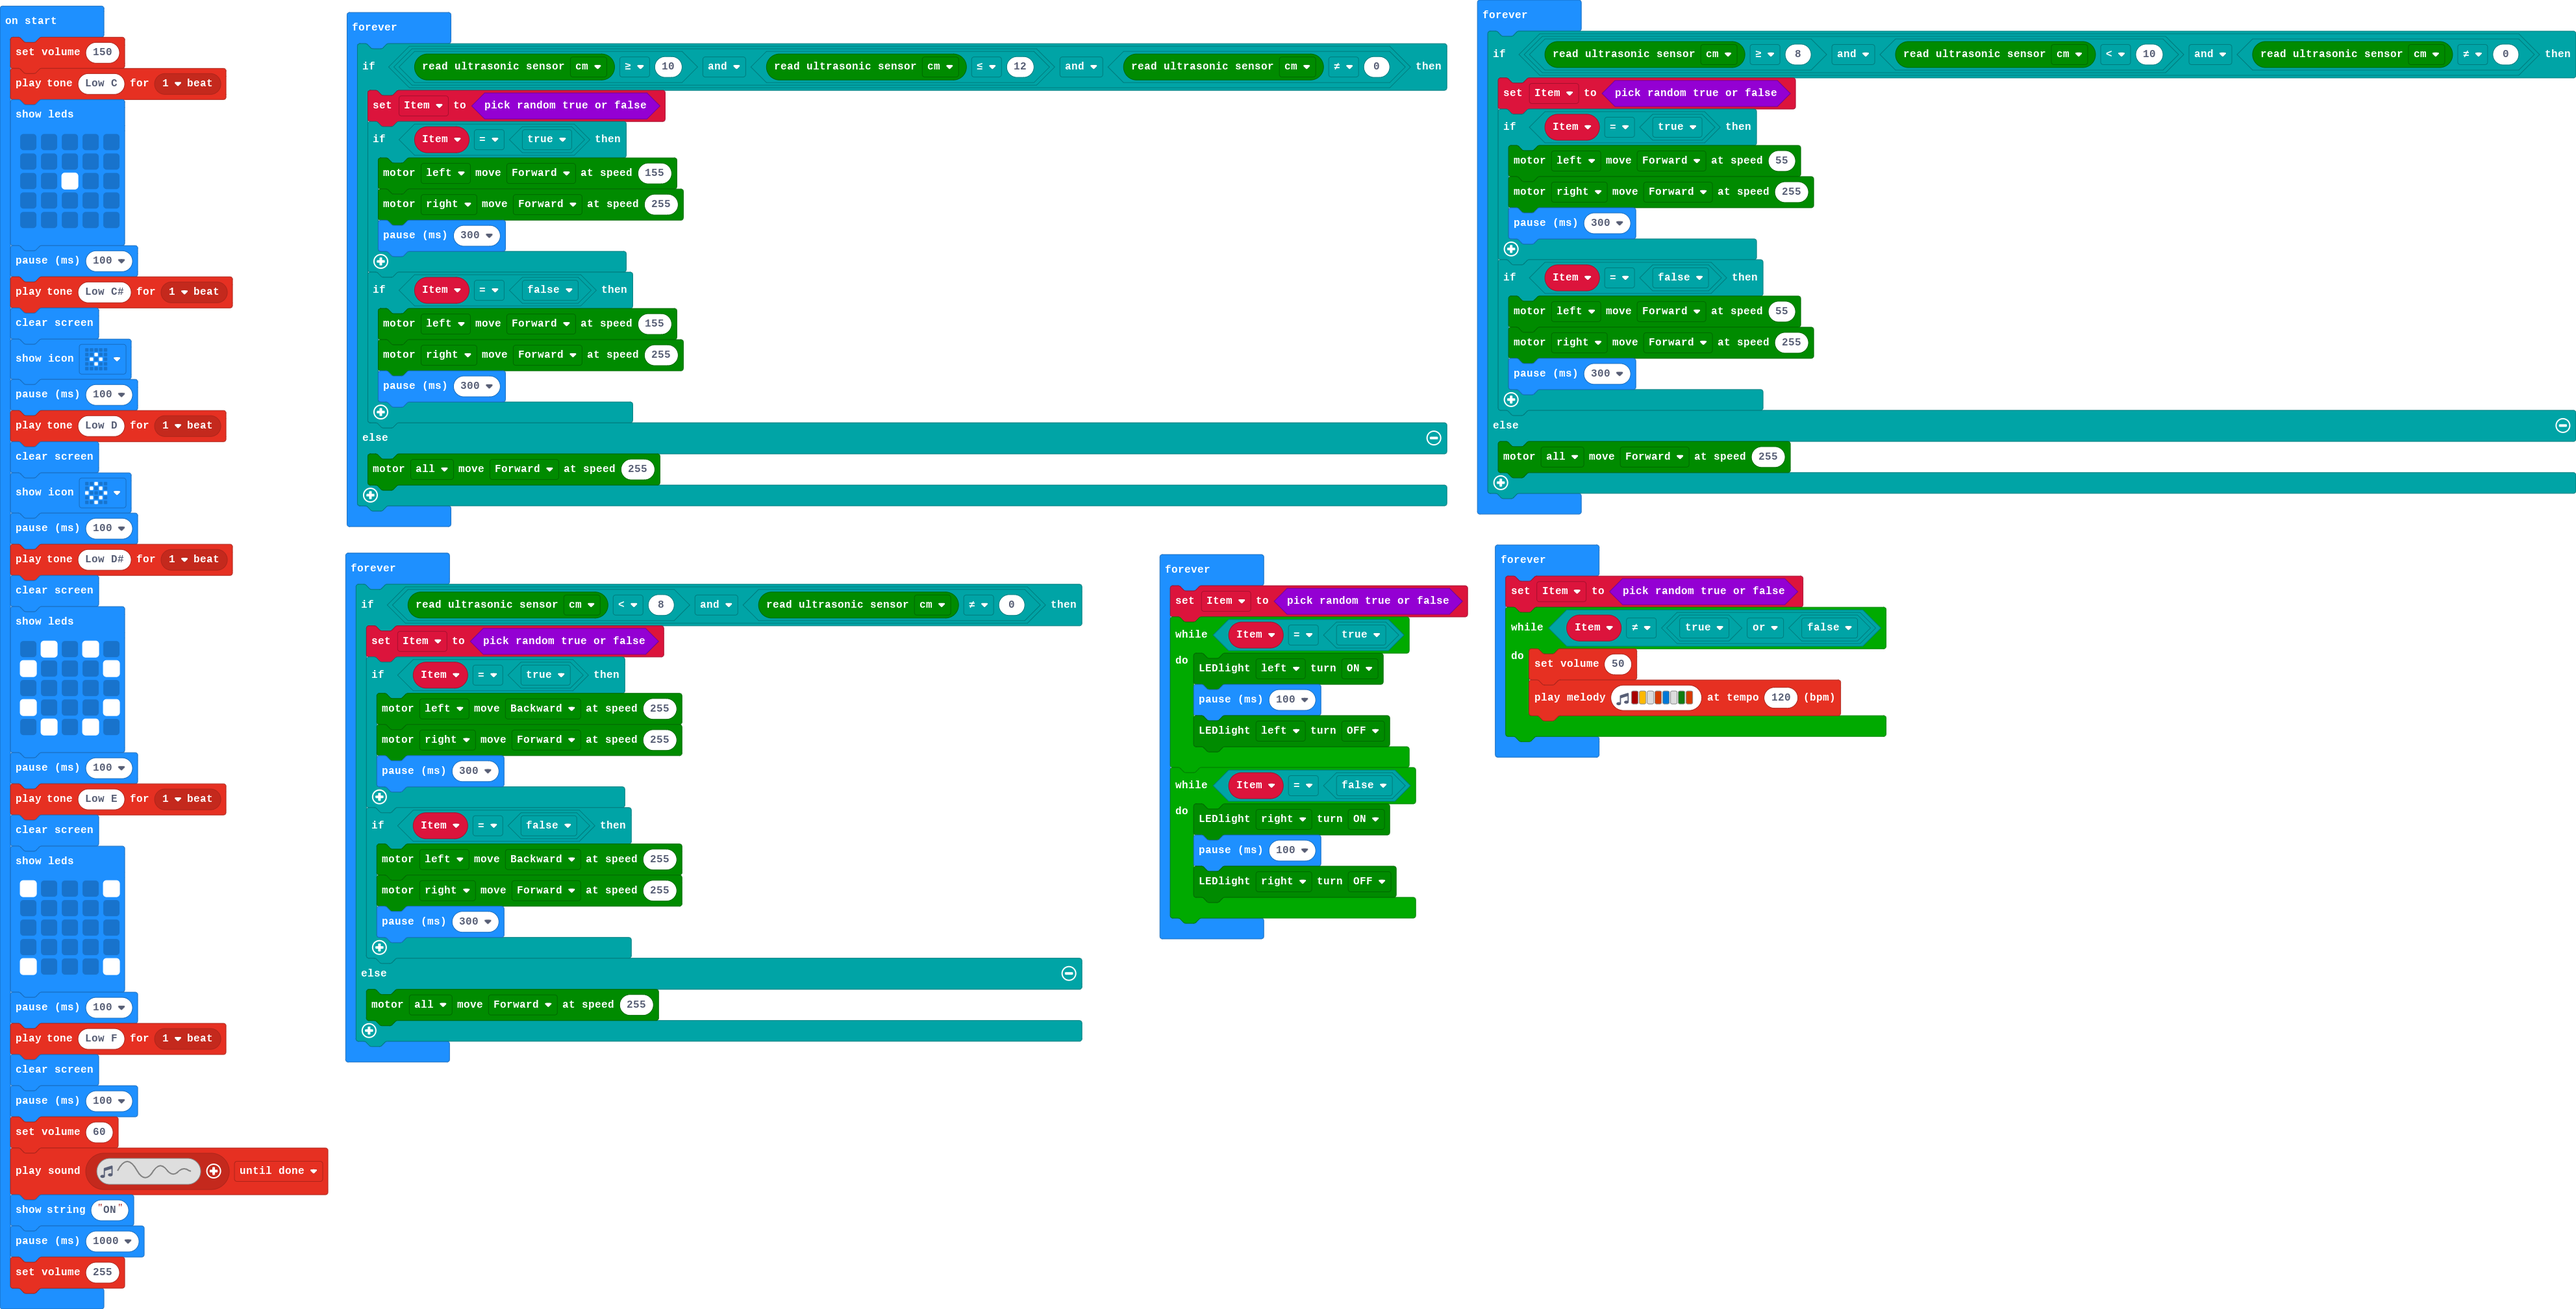
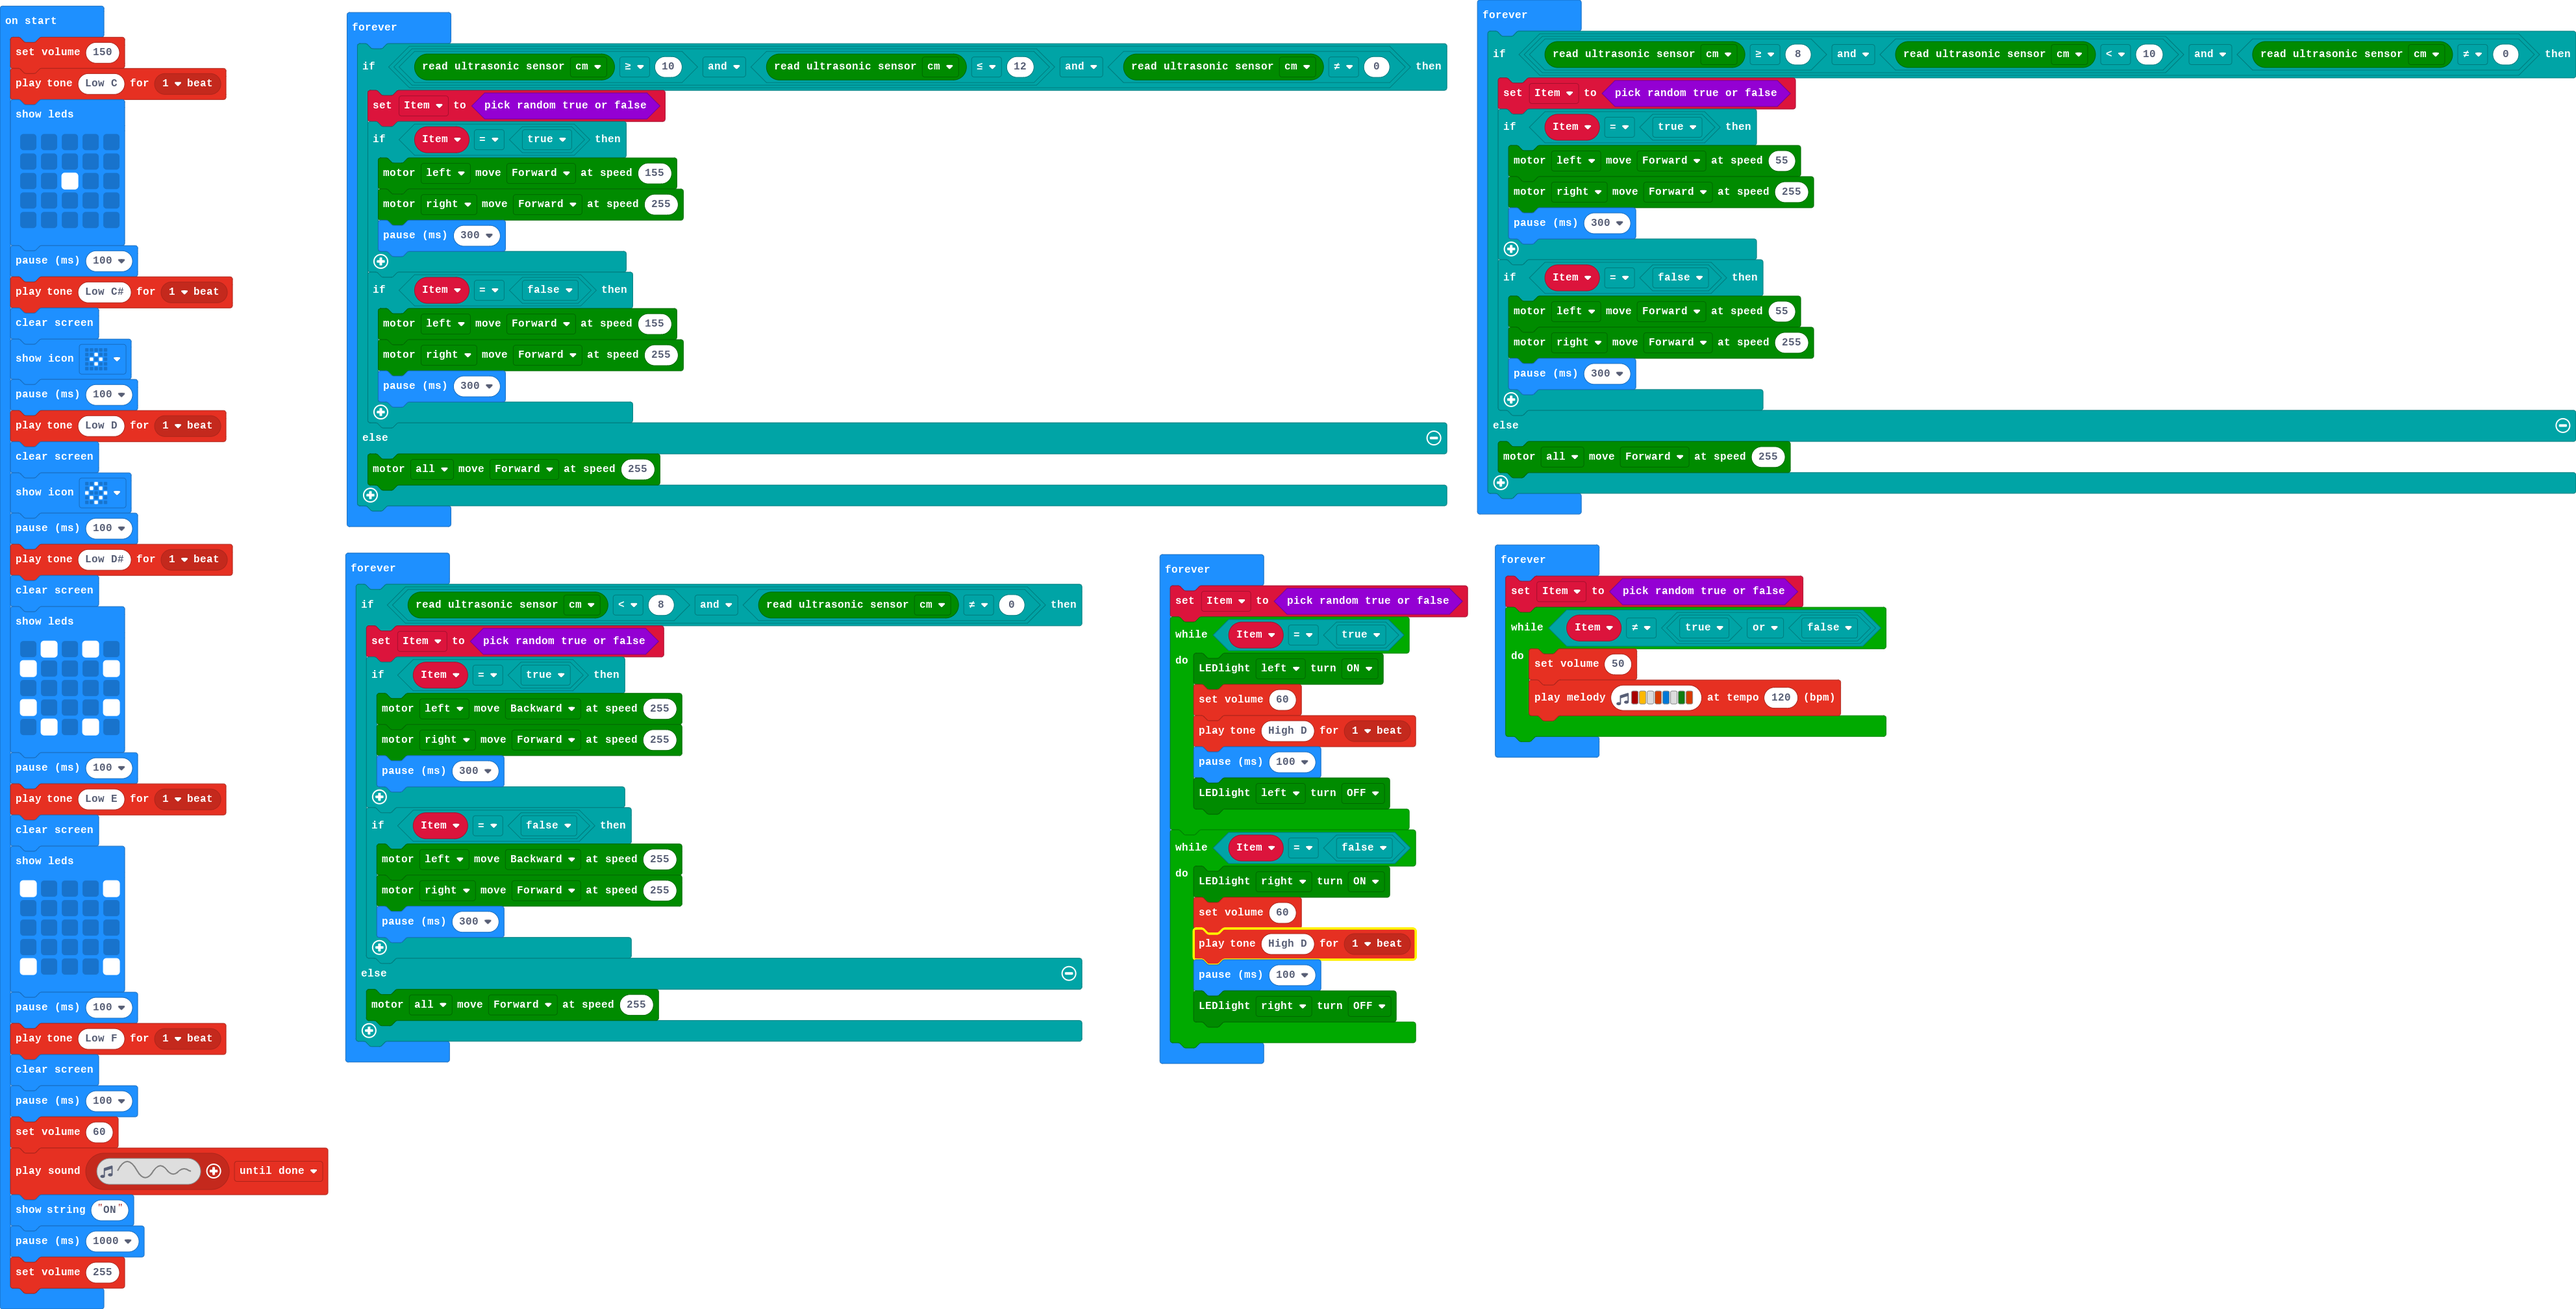
cd

Changed region(s): [[0.4341, 0.5, 0.5581, 0.8125]]

diff --git a/main.ts b/main.ts
@@ -100,11 +100,15 @@ basic.forever(function () {
     Item = Math.randomBoolean()
     while (Item == true) {
         maqueen.writeLED(maqueen.LED.LEDLeft, maqueen.LEDswitch.turnOn)
+        music.setVolume(60)
+        music.playTone(587, music.beat(BeatFraction.Whole))
         basic.pause(100)
         maqueen.writeLED(maqueen.LED.LEDLeft, maqueen.LEDswitch.turnOff)
     }
     while (Item == false) {
         maqueen.writeLED(maqueen.LED.LEDRight, maqueen.LEDswitch.turnOn)
+        music.setVolume(60)
+        music.playTone(587, music.beat(BeatFraction.Whole))
         basic.pause(100)
         maqueen.writeLED(maqueen.LED.LEDRight, maqueen.LEDswitch.turnOff)
     }
